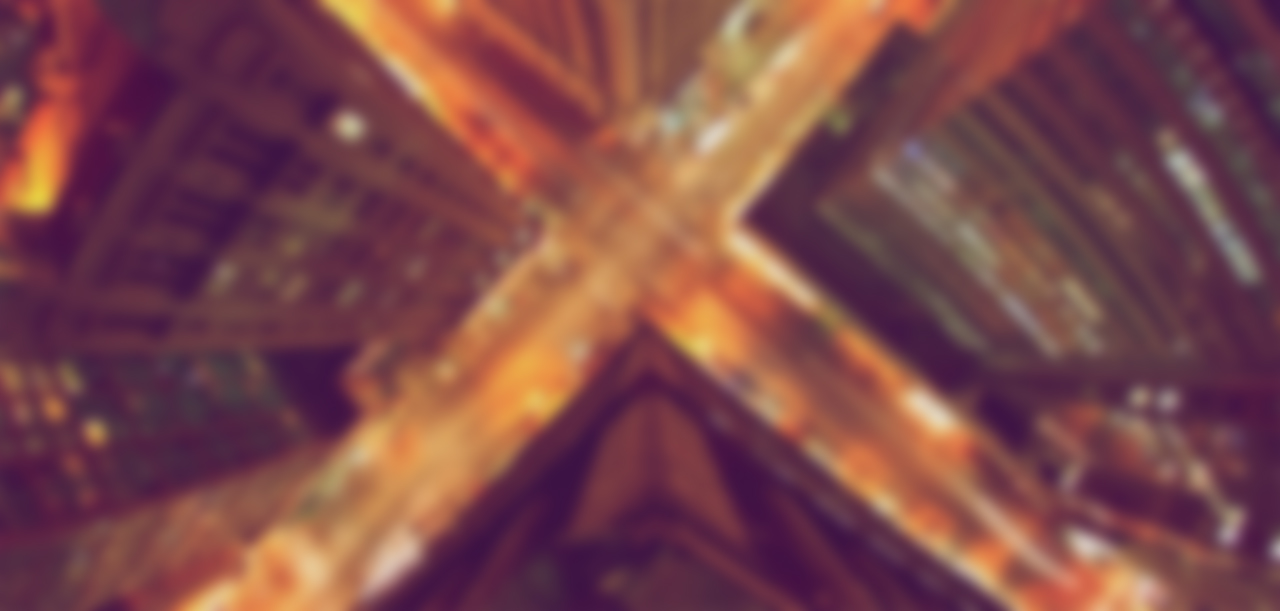
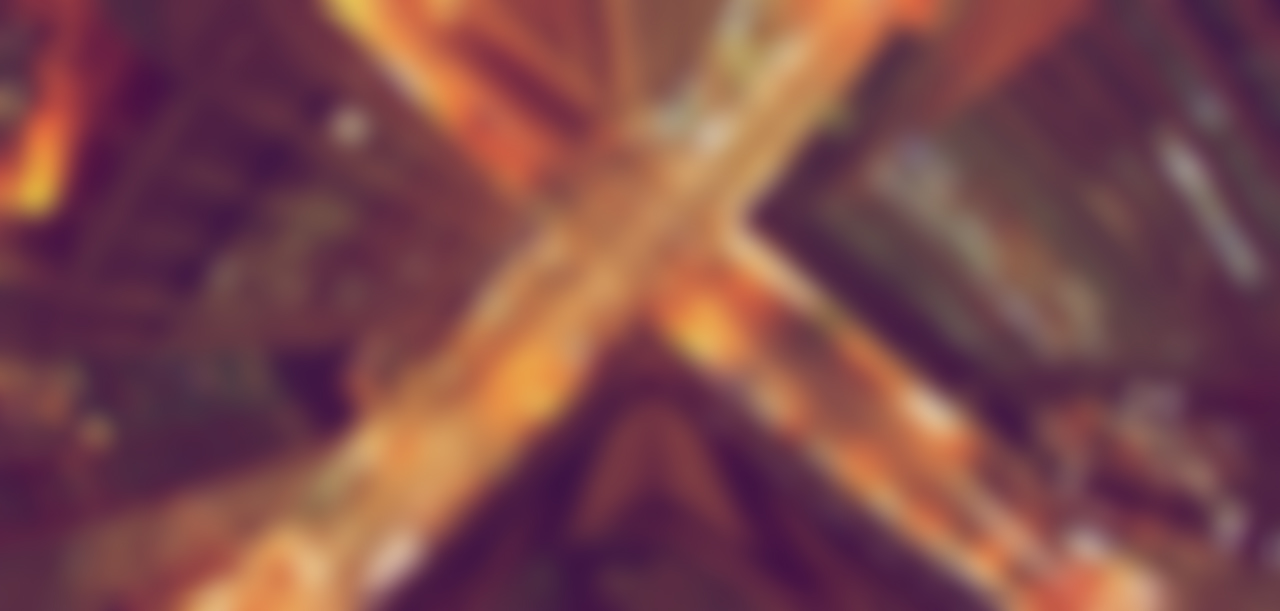
Landing page aesthetics

diff --git a/beta/templates/beta/index.html b/beta/templates/beta/index.html
@@ -17,12 +17,12 @@
 
 	<div id="top" class="masthead">
 			
+		<br><br><br><br><br><br><br>
+		<br><br><br><br><br><br><br>
 
-			<br><br><br><br><br><br><br>
-			<br><br><br><br><br><br><br>
+		<h2>Canada's first crowdshipping platform.</h2>
+		<h3 style="color:white;">Cheapest, fastest, 24/7 shipments within Greater Toronto Area.</h3>
 
-			<h2>Canada's first crowdshipping platform.</h2>
-			<h3 style="color:white;">Cheapest, fastest, 24/7 shipments within Greater Toronto Area.</h3>
 			{% comment %}
 				<div class="col-md-4 col-md-offset-4 subscribe">
 					<form class="form-horizontal" role="form" action="subscribe.php" id="subscribeForm" method="POST">
@@ -50,44 +50,26 @@
 
 
 
-	<div id="top" class="masthead blurred-image">
+	<div id="top-blurred" class="masthead blurred-image">
 
-			<br><br><br><br><br><br><br>
-			<br><br><br><br><br><br><br>
+		<br><br><br><br><br><br><br>
+		<br><br><br><br><br><br><br>
 
-			<h2>Canada's first crowdshipping platform.</h2>
-			<h3 style="color:white;">Cheapest, fastest, 24/7 shipments within Greater Toronto Area.</h3>
-			{% comment %}
-				<div class="col-md-4 col-md-offset-4 subscribe">
-					<form class="form-horizontal" role="form" action="subscribe.php" id="subscribeForm" method="POST">
-						<div class="form-group">
-							<div class="col-md-7 col-sm-6 col-sm-offset-1 column">
-								<form action="/beta/join" method="post" id="mc-embedded-subscribe-form" name="mc-embedded-subscribe-form" class="form-inline" target="_top" role="form" novalidate>{% csrf_token %}
-									
-									<div class="form-group">
-										<input class="form-control input-lg" name="email" type="email" id="address" placeholder="Enter your email" data-validate="validate(required, email)" required="required">
-									</div><! --./form-group -->
-								</form>
-							</div>
-				        </div>
-				    </form>
-				 </div><! --./subscribe -->
-				<div class="col-md-5 col-sm-4 column">
-					<button type="submit" class="btn btn-embossed btn-info btn-hg">Notify me</button>
-				</div><! --./column -->
-
-					<span id="result" class="alertMsg"></span> </div>
-				</div>
-			{% endcomment %}
+		<h2>Canada's first crowdshipping platform.</h2>
+		<h3 style="color:white;">Cheapest, fastest, 24/7 shipments within Greater Toronto Area.</h3>
 
 	</div><! -- ./masthead -->
  
 
     <! -- ******************** FEATURES SECTION ******************** -->	
 	<div class="container page" id="explore">
+		
 		<div class="row clearfix">
-			<div class="col-md-10 col-md-offset-1 column">
+			<div class="col-md-10 col-md-offset-1 column" style="text-align:center;">
+				<img class="pic" src={% static "assets/img/logo-bw.png" %}>
+				<img class="pic-show" src={% static "assets/img/logo.png" %}>
 				<div class="section-title">
+		
 					<h2>What is Questr?</h2>
 					<p>One of the world's first, Questr is a crowdshipping platform that provides cheap, fast, and economical shipments within Greater Toronto Area.
 						<br>
@@ -373,9 +355,13 @@ $(document).ready(function() {
         var s = $(window).scrollTop(),
             d = $(document).height(),
             c = $(window).height(),
-            opacityVal = (s / 240);
-
+            opacityVal = (s / 160);
+ 
         $('.blurred-image').css('opacity', opacityVal);
+        $('.pic-show').css('opacity', opacityVal);
+        $('#top h2').css('margin-top', (s/10)*9);     
+        $('#top-blurred h2').css('margin-top', (s/10)*9);     
+       
     });
 });
 

diff --git a/beta/static/assets/css/index.css b/beta/static/assets/css/index.css
@@ -105,6 +105,7 @@ p{font-size:17px;font-weight:300;margin:10px 0;color: #646464;}
 	min-height: 100%;
     width: 100%;
 	position: absolute;
+    position:fixed;
 	background-image: url('../img/cross.jpg');
 	background-repeat:no-repeat;
 	background-position:center center;
@@ -121,6 +122,7 @@ p{font-size:17px;font-weight:300;margin:10px 0;color: #646464;}
 	padding-left: 10%;
 	padding-right: 10%;
 	}
+
 
 .masthead.blurred-image{
     background-image:url('../img/cross-blurred.jpg');
@@ -142,6 +144,63 @@ p{font-size:17px;font-weight:300;margin:10px 0;color: #646464;}
 .masthead .container h2 {
 	text-shadow: 0px 1px 2px rgba(0,0,0,0.35);
 }
+
+.pic {
+    height: 120px;
+    width: 120px;
+    border-radius: 50%;
+    margin-top: -60px;
+    border: 5px solid #fff;
+    background: url("../img/logo-bw.png" );
+	-webkit-background-size:cover;
+	-moz-background-size:cover;
+	-o-background-size:cover;
+	background-size:cover;
+
+	position: absolute;
+
+
+
+	-moz-transition:all 0.3s ease;
+	-webkit-transition:all 0.3s ease;
+	-ms-transition:all 0.3s ease;
+	-o-transition:all 0.3s ease;
+	transition:all 0.3s ease;
+
+}
+
+.pic-show {
+	opacity: 0;
+
+		position: relative;
+
+    height: 120px;
+    width: 120px;
+    border-radius: 50%;
+    margin-top: -60px;
+    border: 5px solid #fff;
+    background: url("../img/logo-bw.png" );
+	-webkit-background-size:cover;
+	-moz-background-size:cover;
+	-o-background-size:cover;
+	background-size:cover;
+
+
+	-moz-transition:all 0.3s ease;
+	-webkit-transition:all 0.3s ease;
+	-ms-transition:all 0.3s ease;
+	-o-transition:all 0.3s ease;
+	transition:all 0.3s ease;
+}
+/*
+.pic:hover {
+    background: url("../img/logo.png" );
+	-webkit-background-size:cover;
+	-moz-background-size:cover;
+	-o-background-size:cover;
+	background-size:cover;
+}
+*/
 
 .loading *{
 	-webkit-animation:none!important;
